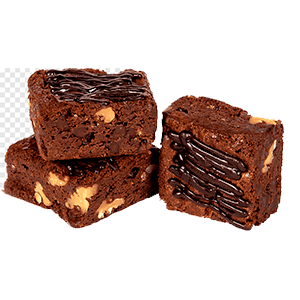
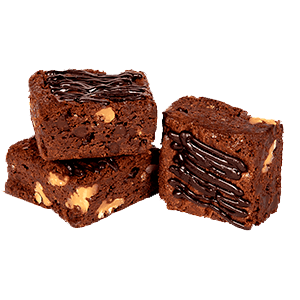
add style on each outher product in page 001 and add class on each img the same

diff --git a/Projeto_padaria/parceiros/templates/html/pagina01.html b/Projeto_padaria/parceiros/templates/html/pagina01.html
@@ -101,10 +101,10 @@
             <div class="container">
                 <h2 class="title_produts">OUTROS PRODUTOS</h2>
                 <div class="our_produts">
-                    <img src="{% static '/imgs/salgados.png' %}" alt="">
-                    <img src="{% static '/imgs/tiramisu.png' %}" alt="">
-                    <img src="{% static '/imgs/bolo.png' %}" alt="">
-                    <img src="{% static '/imgs/brownie.png' %}" alt="">
+                    <img class="enterprise_img" src="{% static '/imgs/salgados.png' %}" alt="">
+                    <img class="enterprise_img" src="{% static '/imgs/tiramisu.png' %}" alt="">
+                    <img class="enterprise_img" src="{% static '/imgs/bolo.png' %}" alt="">
+                    <img class="enterprise_img" src="{% static '/imgs/brownie.png' %}" alt="">
                 </div>
             </div>
         </section><!-- End Section outher products -->

diff --git a/Projeto_padaria/parceiros/static/css/desktop.css b/Projeto_padaria/parceiros/static/css/desktop.css
@@ -137,6 +137,10 @@ h2.title_produts{
     text-align: center;
     padding-bottom: 4%;
 }
+.our_produts{
+    display: flex;
+    justify-content: space-between;
+}
 
 /* Mid section annoucement */
 
